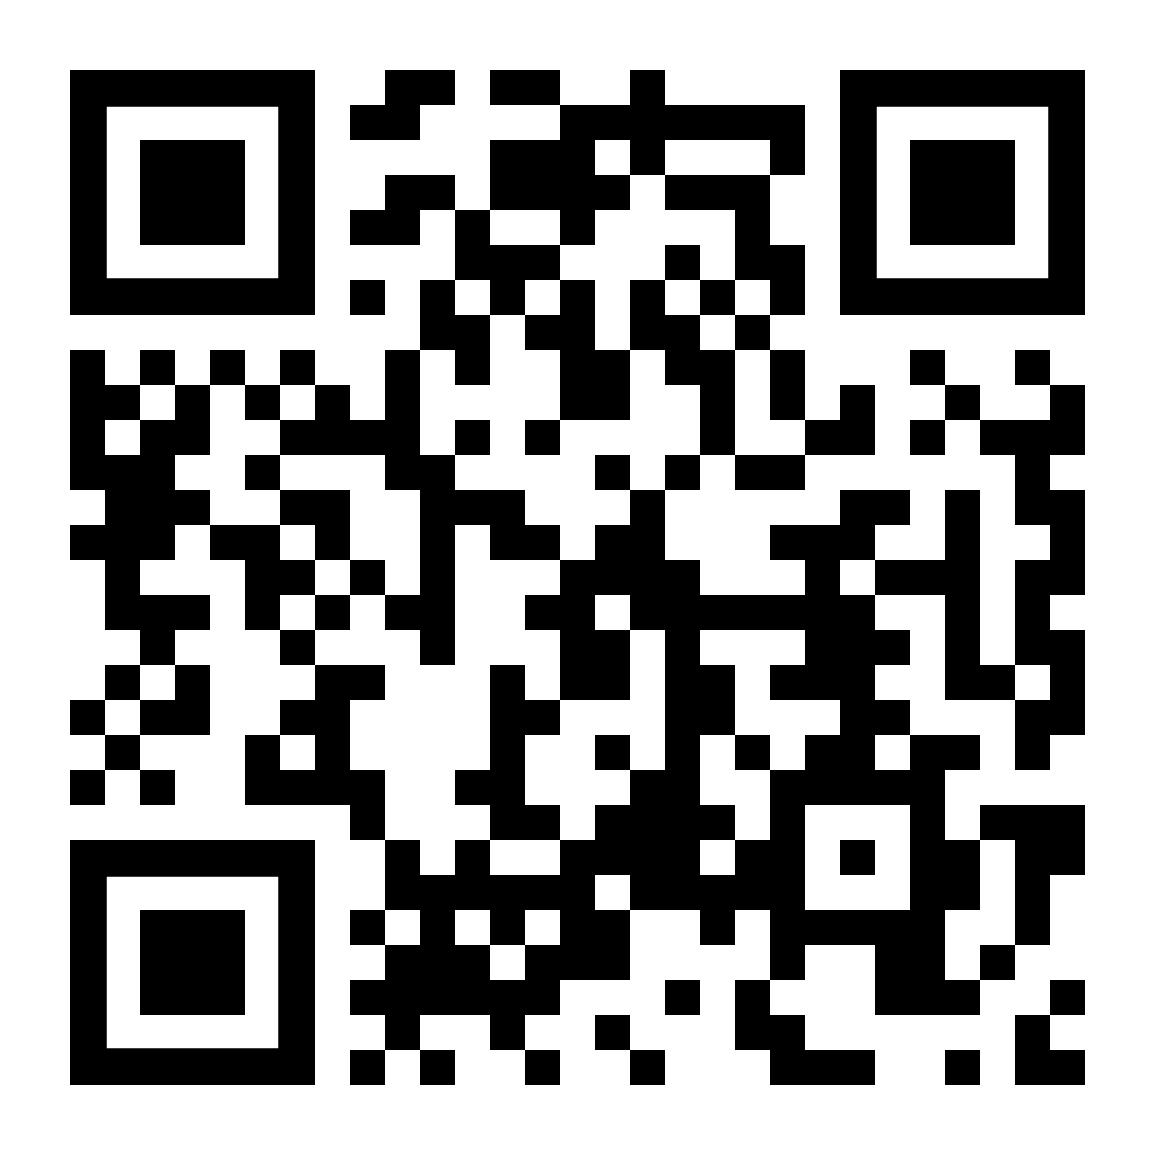
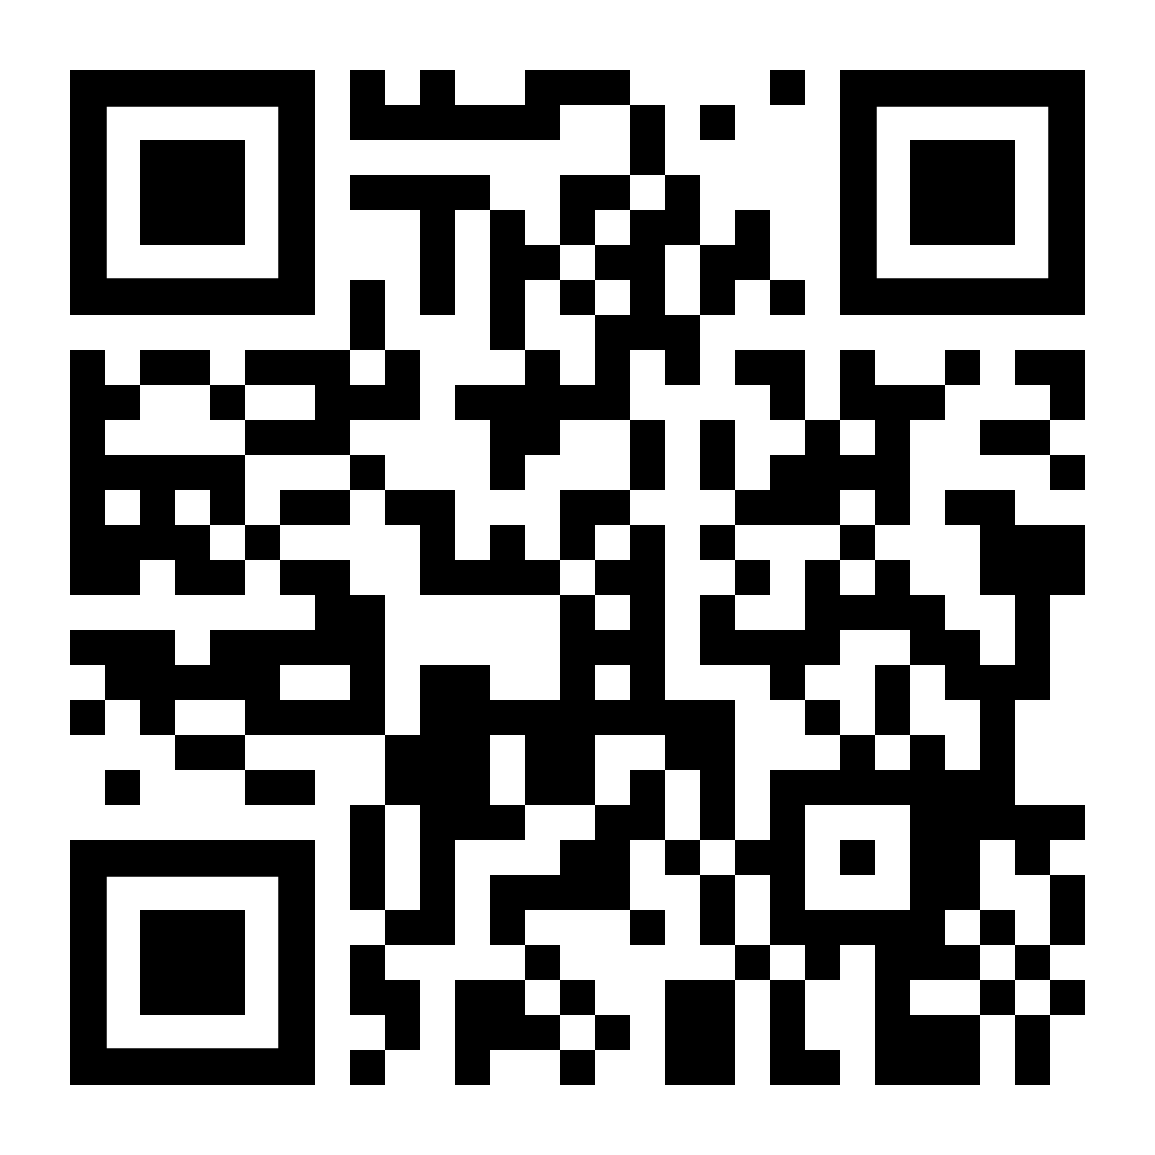
sustainability up

diff --git a/FS1005_19.html b/FS1005_19.html
@@ -68,7 +68,7 @@
 			<section data-background-color="#000000">
 				<p> Link to <b>video</b> below:
 					<br>
-					<a href="https://youtu.be/1uuaaUP8Orw">👉<i>https://youtu.be/1uuaaUP8Orw</i></a>
+					<a href="https://youtu.be/lh_TcVd7XcA">👉<i>https://youtu.be/lh_TcVd7XcA</i></a>
 				</p>
 
 				<img title="Scan me with your phone!" src="img/qr_fs1005_yt17.png" alt="if you don't see a QR code click the link" style="height: 340px; margin: 0 auto 4rem auto; background: transparent;" class="qr_code">
@@ -77,8 +77,8 @@
 			</section>
 
 			<section>
-				<h3><strong>Good luck in your exams</strong> <br> </h3>
-				<p><i>Email me if you need anything</i></p>
+				<h3><strong>Coming soon...</strong> <br> </h3>
+				<p><i>Exam and essay</i></p>
 
 				<a href="mailto:shane.crowley@ucc.ie">shane.crowley@ucc.ie</p>
 				<a href="mailto:shane.crowley@ucc.ie">

diff --git a/index.md b/index.md
@@ -48,7 +48,7 @@ Lecture#12: [Techno-ethics I: Introduction](http://edibotopic.github.io/lecture-
 
 Lecture#13: [Techno-ethics II: Consequences](http://edibotopic.github.io/lecture-slides/FS1005_18.html)
 
-<!-- Lecture#17: [Techno-ethics III: Sustainability](http://edibotopic.github.io/lecture-slides/FS1005_19.html) -->
+Lecture#14: [Techno-ethics III: Sustainability](http://edibotopic.github.io/lecture-slides/FS1005_19.html)
 
 ---
 
